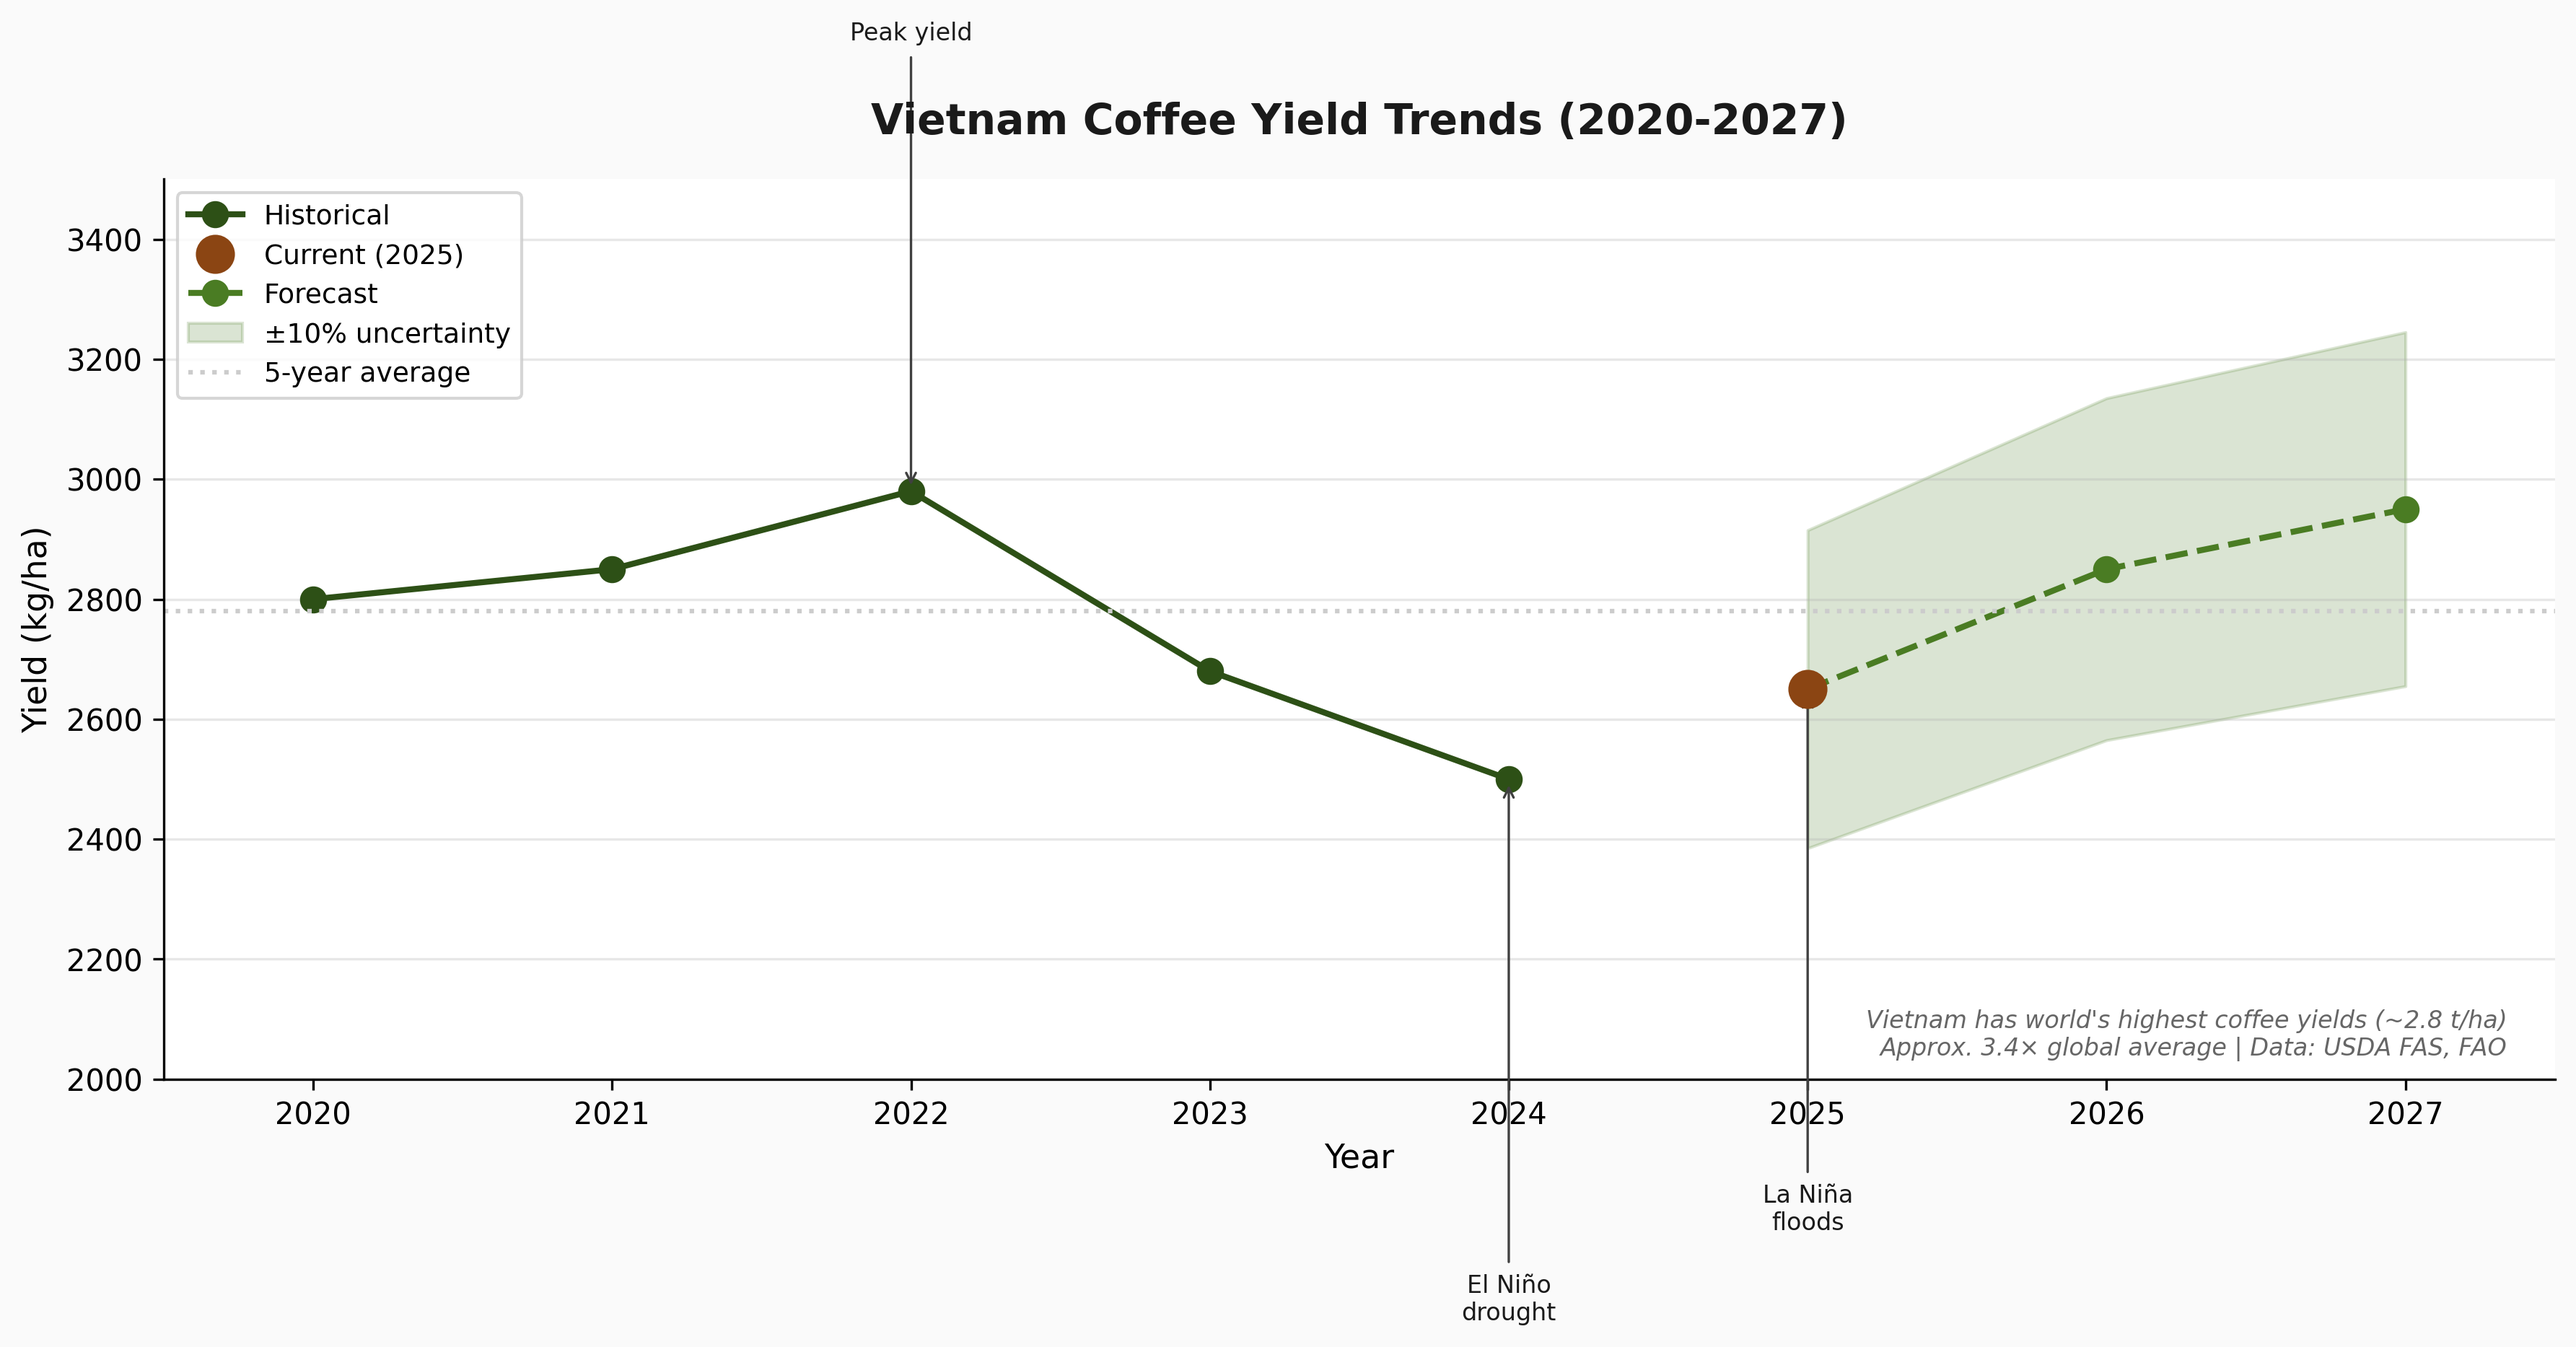
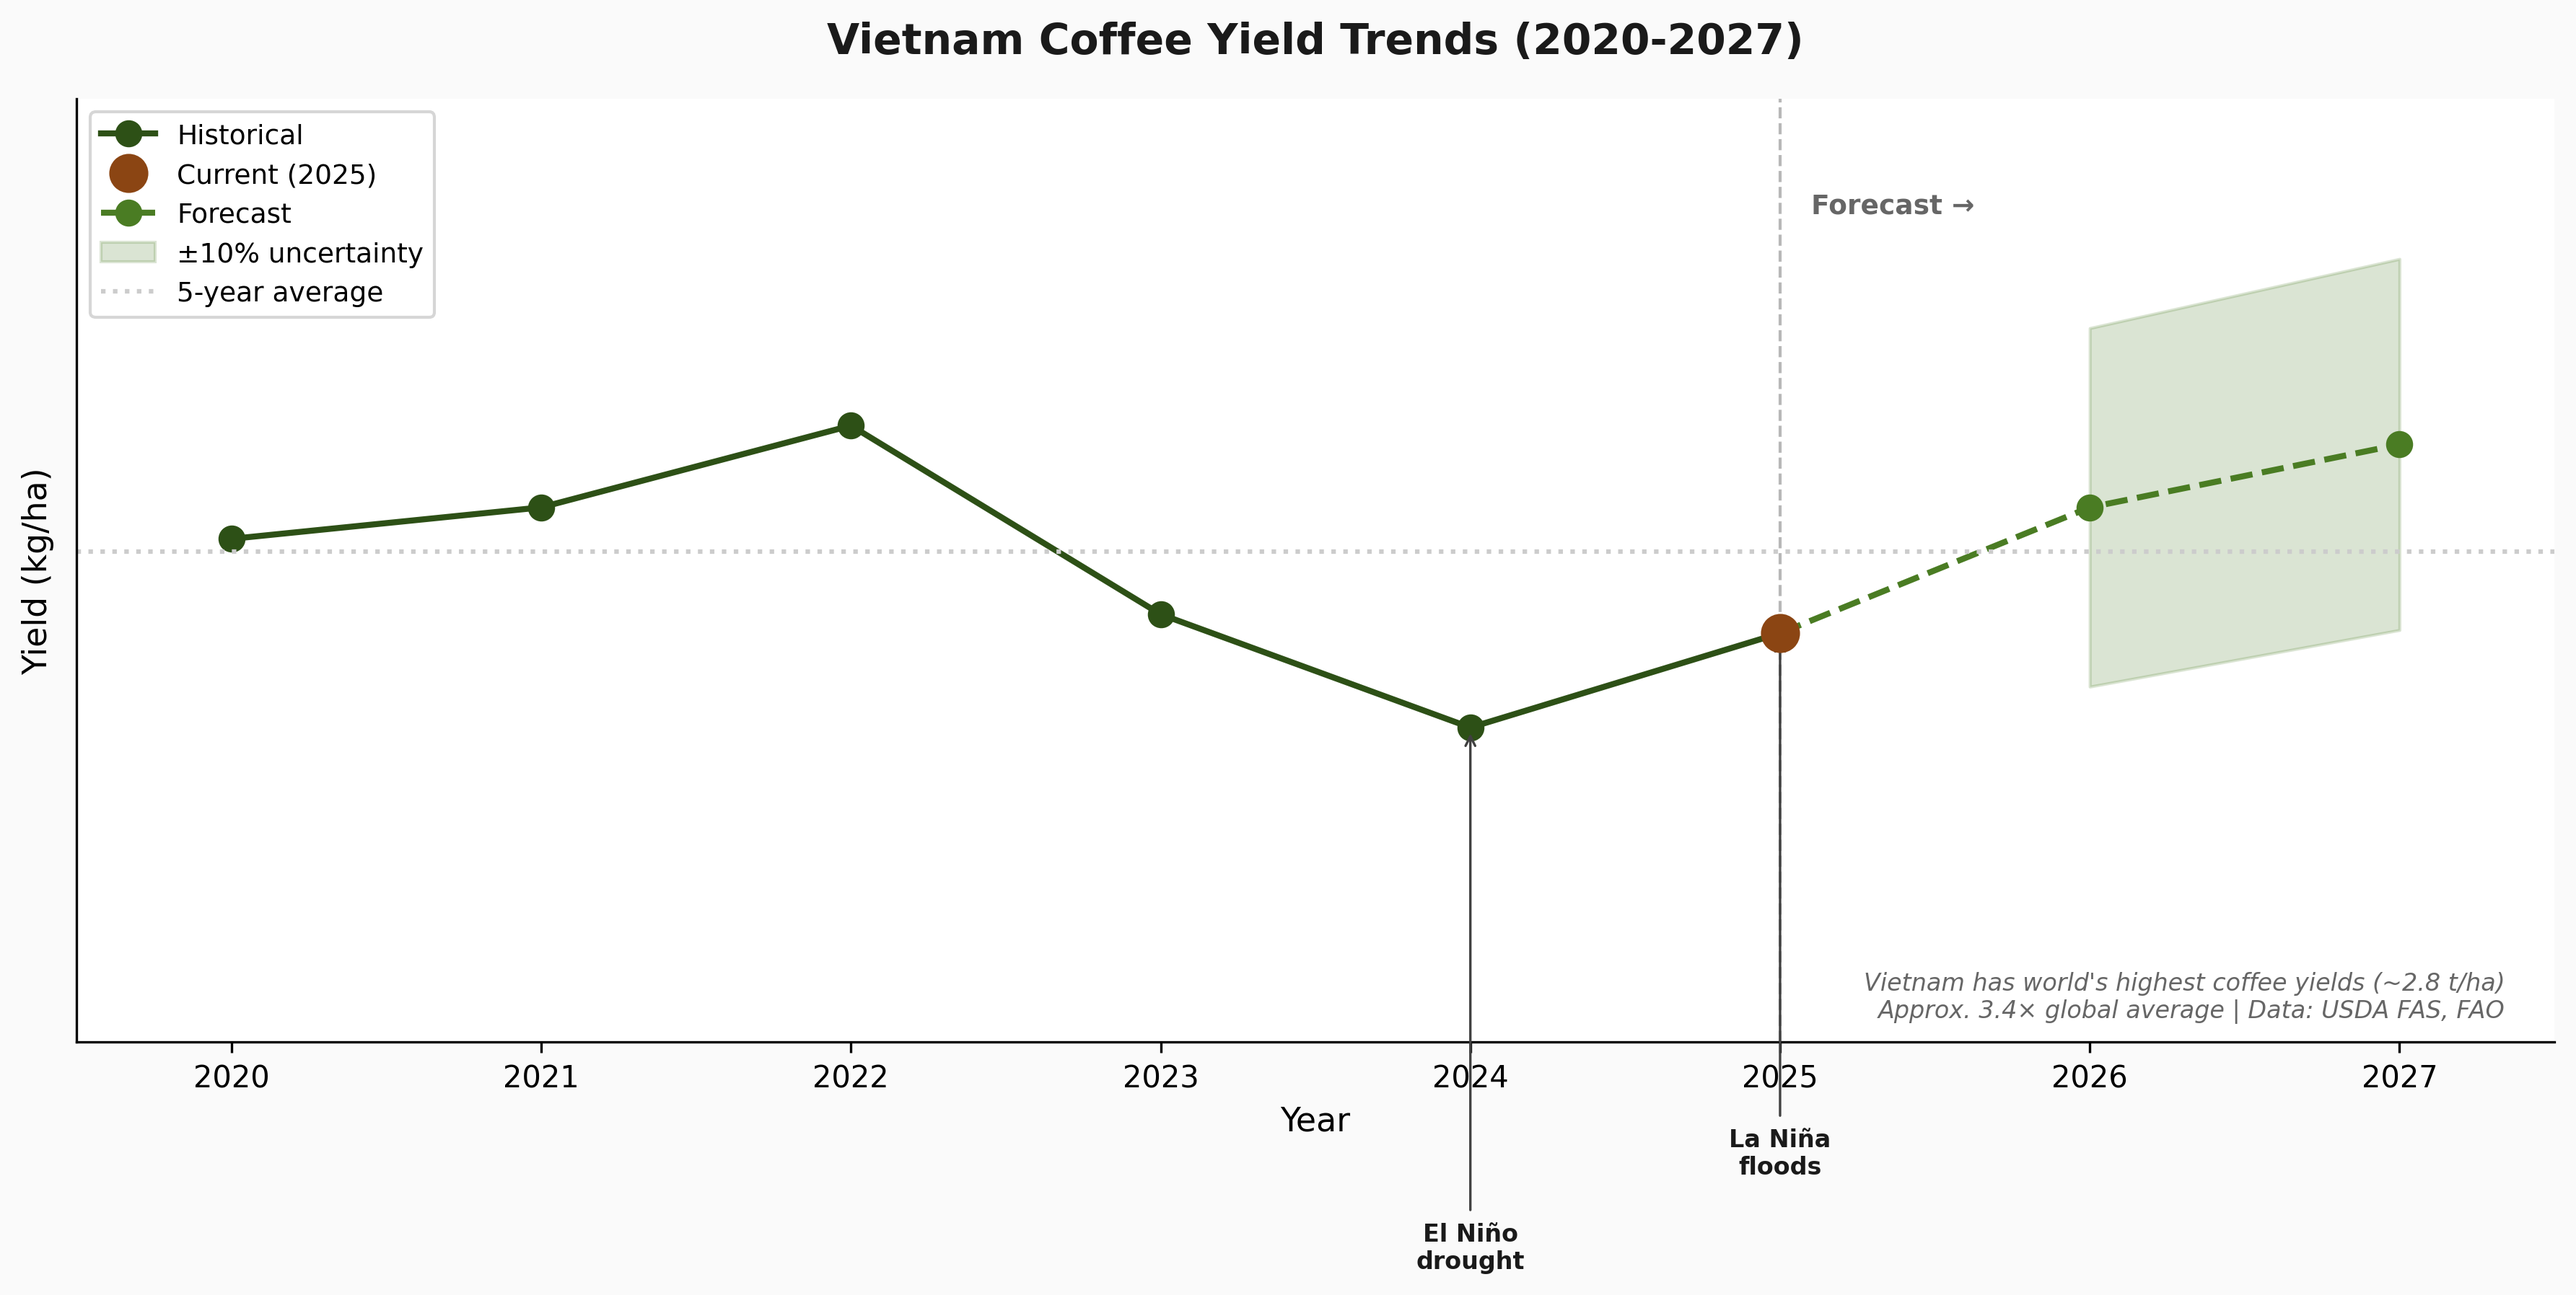
Add coffee probability map visualisation and improve timeline chart
- Add create_coffee_map.py with light and dark themed maps
- Fix timeline chart to connect forecast line from 2025
- Add vertical forecast indicator line
- Remove y-axis tick labels per feedback
- Add rasterio dependency for TIF file handling
- Update .gitignore to exclude TIF files

diff --git a/scripts/create_coffee_maps.py b/scripts/create_coffee_maps.py
@@ -453,9 +453,9 @@ def create_yield_timeline():
     years = [2020, 2021, 2022, 2023, 2024, 2025, 2026, 2027]
     yields = [2800, 2850, 2980, 2680, 2500, 2650, 2850, 2950]
 
-    # Plot historical data
-    hist_years = years[:5]
-    hist_yields = yields[:5]
+    # Plot historical data (up to and including 2025)
+    hist_years = years[:6]  # Include 2025 in historical line
+    hist_yields = yields[:6]
     ax.plot(
         hist_years,
         hist_yields,
@@ -466,7 +466,7 @@ def create_yield_timeline():
         label="Historical",
     )
 
-    # Plot current
+    # Highlight current year (2025)
     ax.plot(
         [2025],
         [2650],
@@ -477,9 +477,9 @@ def create_yield_timeline():
         zorder=5,
     )
 
-    # Plot forecast with dashed line
-    forecast_years = years[5:]
-    forecast_yields = yields[5:]
+    # Plot forecast with dashed line - connect from 2025 to remove gap
+    forecast_years = [2025] + years[6:]  # Start from 2025 to connect
+    forecast_yields = [yields[5]] + yields[6:]  # Include 2025 value
     ax.plot(
         forecast_years,
         forecast_yields,
@@ -490,26 +490,37 @@ def create_yield_timeline():
         label="Forecast",
     )
 
-    # Add uncertainty band for forecast
+    # Add uncertainty band for forecast (only for future years)
     ax.fill_between(
-        forecast_years,
-        [y * 0.9 for y in forecast_yields],
-        [y * 1.1 for y in forecast_yields],
+        years[6:],
+        [y * 0.9 for y in yields[6:]],
+        [y * 1.1 for y in yields[6:]],
         alpha=0.2,
         color=COLOURS["coffee_secondary"],
         label="±10% uncertainty",
     )
 
-    # Add event annotations
+    # Add vertical line to mark forecast start
+    ax.axvline(x=2025, color="#999999", linestyle="--", linewidth=1, alpha=0.7)
+    ax.text(
+        2025.1,
+        3350,
+        "Forecast →",
+        fontsize=9,
+        color="#666666",
+        fontweight="bold",
+        va="top",
+    )
+
+    # Add event annotations - El Niño drought and La Niña floods
     events = {
-        2022: ("Peak yield", "above"),
         2024: ("El Niño\ndrought", "below"),
         2025: ("La Niña\nfloods", "below"),
     }
 
     for year, (text, pos) in events.items():
         y_val = yields[years.index(year)]
-        y_offset = 150 if pos == "above" else -180
+        y_offset = -180
         ax.annotate(
             text,
             xy=(year, y_val),
@@ -517,6 +528,7 @@ def create_yield_timeline():
             textcoords="offset points",
             ha="center",
             fontsize=8,
+            fontweight="bold",
             color=COLOURS["text"],
             arrowprops=dict(arrowstyle="->", color=COLOURS["border"], lw=0.8),
         )
@@ -537,7 +549,10 @@ def create_yield_timeline():
     ax.legend(loc="upper left", fontsize=9)
     ax.spines["top"].set_visible(False)
     ax.spines["right"].set_visible(False)
-    ax.grid(axis="y", alpha=0.3)
+
+    # Remove y-axis tick labels (per JH feedback) but keep the axis label
+    ax.set_yticklabels([])
+    ax.tick_params(axis="y", length=0)
 
     # Add context note
     ax.text(
@@ -666,24 +681,31 @@ def create_infographic_summary():
     years = [2020, 2021, 2022, 2023, 2024, 2025, 2026, 2027]
     yields_time = [2800, 2850, 2980, 2680, 2500, 2650, 2850, 2950]
 
+    # Historical line (up to and including 2025)
     ax5.plot(
-        years[:5], yields_time[:5], "o-", color=COLOURS["coffee_primary"], linewidth=2
+        years[:6], yields_time[:6], "o-", color=COLOURS["coffee_primary"], linewidth=2
     )
-    ax5.plot([2025], [2650], "o", color=COLOURS["highlight"], markersize=10)
+    # Highlight current year
+    ax5.plot([2025], [2650], "o", color=COLOURS["highlight"], markersize=10, zorder=5)
+    # Forecast - connect from 2025 to remove gap
     ax5.plot(
-        years[5:],
-        yields_time[5:],
+        [2025] + years[6:],
+        [yields_time[5]] + yields_time[6:],
         "o--",
         color=COLOURS["coffee_secondary"],
         linewidth=2,
     )
     ax5.fill_between(
-        years[5:],
-        [y * 0.9 for y in yields_time[5:]],
-        [y * 1.1 for y in yields_time[5:]],
+        years[6:],
+        [y * 0.9 for y in yields_time[6:]],
+        [y * 1.1 for y in yields_time[6:]],
         alpha=0.2,
         color=COLOURS["coffee_secondary"],
     )
+
+    # Vertical line to mark forecast start
+    ax5.axvline(x=2025, color="#999999", linestyle="--", linewidth=1, alpha=0.7)
+    ax5.text(2025.1, 3200, "Forecast →", fontsize=8, color="#666666", fontweight="bold")
 
     ax5.axhline(y=2780, color="#CCCCCC", linestyle=":", alpha=0.7)
     ax5.set_xlabel("Year")
@@ -693,19 +715,25 @@ def create_infographic_summary():
     ax5.spines["top"].set_visible(False)
     ax5.spines["right"].set_visible(False)
 
-    # Add annotations
+    # Remove y-axis tick labels (per JH feedback)
+    ax5.set_yticklabels([])
+    ax5.tick_params(axis="y", length=0)
+
+    # Add annotations - El Niño drought and La Niña floods
     ax5.annotate(
         "El Niño\ndrought",
         xy=(2024, 2500),
         xytext=(2023.5, 2300),
         fontsize=8,
+        fontweight="bold",
         arrowprops=dict(arrowstyle="->", color="#666666", lw=0.5),
     )
     ax5.annotate(
-        "Forecast\n+6%",
-        xy=(2026, 2850),
-        xytext=(2026.5, 3050),
+        "La Niña\nfloods",
+        xy=(2025, 2650),
+        xytext=(2024.3, 2850),
         fontsize=8,
+        fontweight="bold",
         arrowprops=dict(arrowstyle="->", color="#666666", lw=0.5),
     )
 

diff --git a/scripts/create_coffee_map.py b/scripts/create_coffee_map.py
@@ -1,0 +1,185 @@
+"""
+Create a map visualising coffee probability in Vietnam.
+
+Uses the vietnam_coffee_probability.tif data with green colour scheme
+to highlight areas with high coffee probability.
+"""
+
+from pathlib import Path
+
+import matplotlib.pyplot as plt
+import numpy as np
+import rasterio
+from matplotlib.colors import LinearSegmentedColormap
+
+
+def create_coffee_probability_map(
+    tif_path: Path,
+    output_path: Path,
+    title: str = "Vietnam Coffee Growing Regions",
+) -> None:
+    """
+    Create a map showing coffee probability in Vietnam.
+
+    Uses a green colour palette where darker green indicates
+    higher probability of coffee cultivation.
+    """
+    with rasterio.open(tif_path) as src:
+        data = src.read(1)
+        bounds = src.bounds
+
+    # Replace -inf/nan with 0 for visualisation
+    data = np.where(np.isfinite(data), data, 0)
+
+    # Clip to valid probability range
+    data = np.clip(data, 0, 1)
+
+    # Create custom green colormap (white to dark green)
+    colors = [
+        "#f7fcf5",  # Very light green (almost white) - no coffee
+        "#e5f5e0",
+        "#c7e9c0",
+        "#a1d99b",
+        "#74c476",
+        "#41ab5d",
+        "#238b45",
+        "#006d2c",
+        "#00441b",  # Dark green - high probability
+    ]
+    green_cmap = LinearSegmentedColormap.from_list("coffee_green", colors)
+
+    # Create figure
+    fig, ax = plt.subplots(figsize=(10, 12), facecolor="white")
+
+    # Plot the raster
+    extent = [bounds.left, bounds.right, bounds.bottom, bounds.top]
+    im = ax.imshow(
+        data,
+        extent=extent,
+        origin="upper",
+        cmap=green_cmap,
+        vmin=0,
+        vmax=1,
+    )
+
+    # Add colourbar
+    cbar = plt.colorbar(im, ax=ax, shrink=0.6, label="Coffee Probability")
+    cbar.ax.tick_params(labelsize=10)
+
+    # Styling
+    ax.set_xlabel("Longitude", fontsize=11)
+    ax.set_ylabel("Latitude", fontsize=11)
+    ax.set_title(title, fontsize=14, fontweight="bold", pad=15)
+
+    # Add grid
+    ax.grid(True, alpha=0.3, linestyle="--", color="gray")
+
+    # Set aspect ratio to equal for geographic accuracy
+    ax.set_aspect("equal")
+
+    plt.tight_layout()
+    plt.savefig(output_path, dpi=150, facecolor="white", bbox_inches="tight")
+    plt.close()
+
+    print(f"Saved coffee probability map to: {output_path}")
+
+
+def create_coffee_probability_map_dark(
+    tif_path: Path,
+    output_path: Path,
+    title: str = "Vietnam Coffee Growing Regions",
+) -> None:
+    """
+    Create a dark-themed map matching the booth aesthetic.
+    """
+    with rasterio.open(tif_path) as src:
+        data = src.read(1)
+        bounds = src.bounds
+
+    # Replace -inf/nan with 0
+    data = np.where(np.isfinite(data), data, 0)
+    data = np.clip(data, 0, 1)
+
+    # Dark theme green colormap
+    colors = [
+        "#1a1a1a",  # Dark background - no coffee
+        "#0d2818",
+        "#1a4024",
+        "#265930",
+        "#32723c",
+        "#3e8c48",
+        "#4aa654",
+        "#56c060",
+        "#62da6c",  # Bright green - high probability
+    ]
+    green_cmap = LinearSegmentedColormap.from_list("coffee_green_dark", colors)
+
+    # Create figure with dark background
+    fig, ax = plt.subplots(figsize=(10, 12), facecolor="#1a1a1a")
+    ax.set_facecolor("#1a1a1a")
+
+    # Plot the raster
+    extent = [bounds.left, bounds.right, bounds.bottom, bounds.top]
+    im = ax.imshow(
+        data,
+        extent=extent,
+        origin="upper",
+        cmap=green_cmap,
+        vmin=0,
+        vmax=1,
+    )
+
+    # Add colourbar
+    cbar = plt.colorbar(im, ax=ax, shrink=0.6, label="Coffee Probability")
+    cbar.ax.yaxis.set_tick_params(color="white")
+    cbar.ax.yaxis.label.set_color("white")
+    cbar.outline.set_edgecolor("white")
+    plt.setp(plt.getp(cbar.ax.axes, "yticklabels"), color="white")
+
+    # Styling
+    ax.set_xlabel("Longitude", fontsize=11, color="white")
+    ax.set_ylabel("Latitude", fontsize=11, color="white")
+    ax.set_title(title, fontsize=14, fontweight="bold", pad=15, color="white")
+
+    # Grid
+    ax.grid(True, alpha=0.2, linestyle="--", color="white")
+
+    # Tick styling
+    ax.tick_params(colors="white")
+    for spine in ax.spines.values():
+        spine.set_color("white")
+        spine.set_alpha(0.3)
+
+    ax.set_aspect("equal")
+
+    plt.tight_layout()
+    plt.savefig(output_path, dpi=150, facecolor="#1a1a1a", bbox_inches="tight")
+    plt.close()
+
+    print(f"Saved dark-themed coffee probability map to: {output_path}")
+
+
+def main() -> None:
+    """Generate coffee probability maps."""
+    data_dir = Path(__file__).parent.parent / "data"
+    output_dir = Path(__file__).parent.parent / "outputs"
+    output_dir.mkdir(exist_ok=True)
+
+    tif_path = data_dir / "vietnam_coffee_probability.tif"
+
+    # Create both light and dark themed maps
+    create_coffee_probability_map(
+        tif_path,
+        output_dir / "vietnam_coffee_map.png",
+        title="Vietnam Coffee Growing Regions",
+    )
+
+    create_coffee_probability_map_dark(
+        tif_path,
+        output_dir / "vietnam_coffee_map_dark.png",
+        title="Vietnam Coffee Growing Regions",
+    )
+
+
+if __name__ == "__main__":
+    main()
